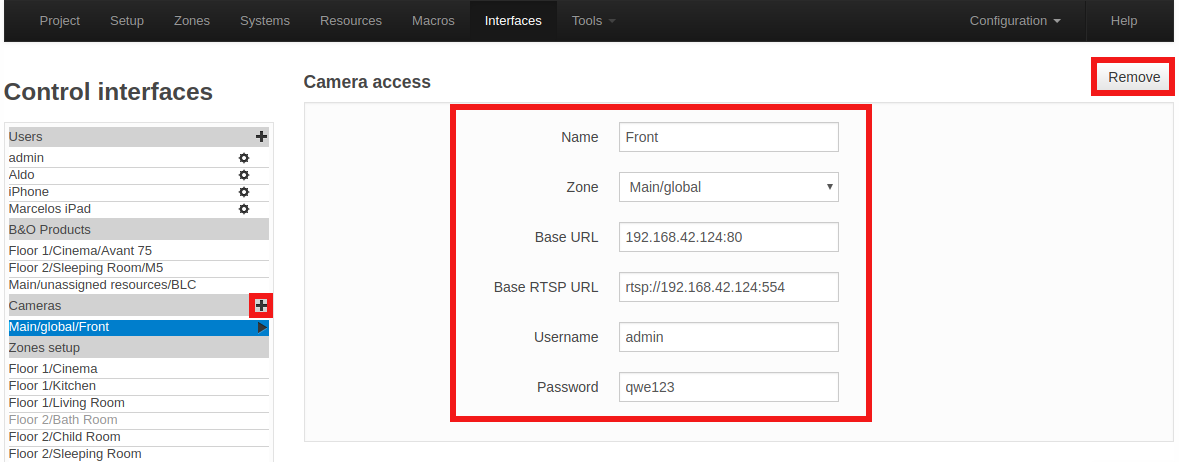
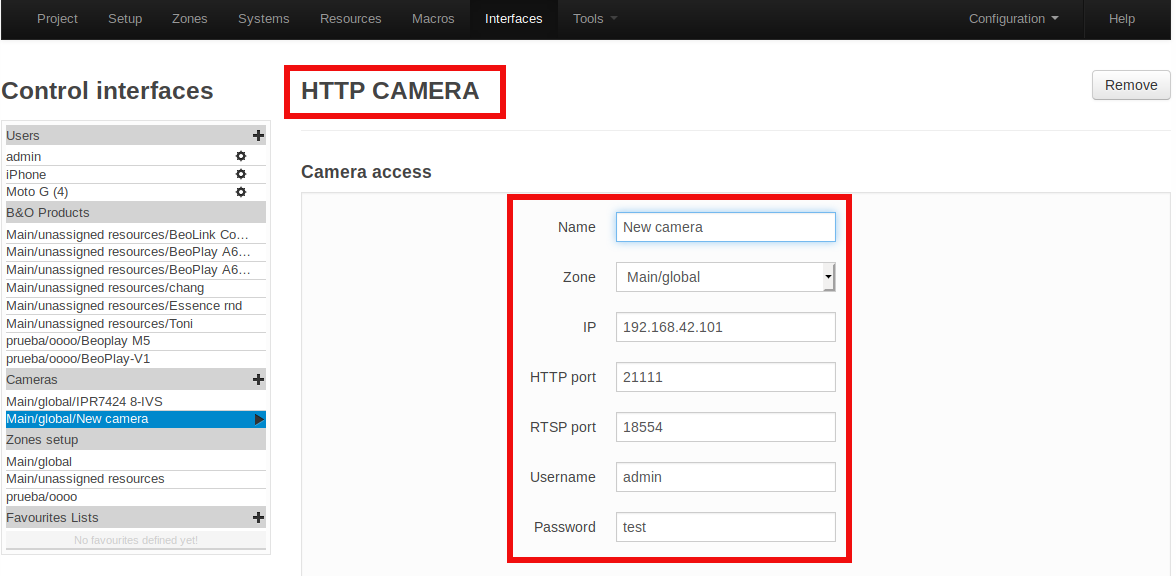
edited slides. added descover my devices to quick setup. Added new camera interface to pro guide. More?

Changed region(s): [[0.0, 0.0, 1.0, 1.0], [0.9184, 0.1212, 1.0, 0.2121]]

diff --git a/slides/training.md b/slides/training.md
@@ -5,8 +5,12 @@ layout: slides
 [comment]: <> (For a new horizontal slide use: \n----\n)
 [comment]: <> (For a new vertical slide use: \n|||n)
 [comment]: <> (To write slide notes uses \nNote:)
+<!--to control the slides while talking https://ivanmeresman.github.io/vendor/reveal.js/plugin/notes/notes.html-->
+
 
 <!-- .slide: data-background-image="bli.jpg" data-background-opacity=.1 -->
+
+
 
 ----
 ## BeoLiving Intelligence
@@ -33,14 +37,14 @@ Note:
 ----
 ### ESSENTIAL (1/2)
 
-- Designed for the end-user (*Plug & Play*)
-- Automatically adds B&O devices
-- Fully configurable from the *BeoLiving App*
-- Password less: improves security
+- Designed for end-user (*Plug & Play*)
+- Easily add B&O devices, Philips Hue lighting and ONVIF cameras
+- Fully configurable through the *BeoLiving App* (Scenes, Zones, etc.)
+- Passwordless: Improves security
 
 Note:
 + Designed for the end-user, meaning that you don't need any technical knowledge
-+ The idea is that when a customer buys a BLI, by itself he will by capable to install and start using it without any installer help
++ The idea is that when a customer buys a BLI, he will be able to install and start using it without any installer help
 + Most of its configuration is done through BeoLiving App
 + Web interface is only used for a few things. Network settings, Project info, User management, Firmware update and Service report are available. 
 Configuration upload/download is not supported
@@ -50,22 +54,22 @@ Configuration upload/download is not supported
  
 - Set content provider credentials
 - Products groups
-- Voice control
+- Voice control (Alexa & IFTTT)
 - Automatic firmware upgrade
 
 Note:
 - Voice control: Alexa, Google Home (on the way) and Apple HomePod (looking forward to)
-- HA systems are blocked
+- HA(High Availability) systems are blocked
 - Some HA systems will be added in the near future
 - Recapitulation of ESSENTIAL
 
 ----
 ## PRO
 
-- The *ESSENTIAL* features
-- The *BeoLink Gateway* features
+- One-time payment for PRO upgrade
+- The *ESSENTIAL*'s features
+- The *BeoLink Gateway*'s features
 - Remote access
-- One-time payment for PRO mode upgarde
 
 Note:
 - This upgrade is done through BLI web interface. 
@@ -73,15 +77,15 @@ Note:
 - Its web interface and configuration is practically the same as BeoLink Gateway
 
 ----
-## Changes compared with BLGW
+## Changes from BLGW
 
 - MasterLink devices only integrated through BLC
 - Beo4 and BeoRemote One commands deprecated from Macros
-- No more manual sources: devices' sources synchronized automatically
-- The default admin password
+- No more manual sources: device's sources synchronized automatically
+- No default admin password
 
 Note:
-+ By default, admin password is unknown. To set it to a known password, button function 2 must be entered. This will set admin password to "admin"for the next 5 minutes. Then, you must enter to its web interface and at first you will be asked to set a new admin password.
++ By default, admin password is unknown. To set it to a known password, button function 2 must be entered. This will set admin password to "admin"for the next 5 minutes. Then, you must enter its web interface and at first you will be asked to set a new admin password.
 + This decision is based in security matters.
 
 ----
@@ -99,20 +103,20 @@ Note:
 
 
 |||
-#### Feature: Assign products
+#### Feature: Add devices and create zones
 
-<iframe class="embed-responsive-item" src="https://www.youtube.com/embed/kxKkUu6QZVI?autoplay=0&loop=1&playlist=kxKkUu6QZVI"  frameborder="0" height="570" allow="autoplay; encrypted-media" allowfullscreen></iframe>
+<iframe class="embed-responsive-item" src="https://www.youtube.com/embed/6PNh82VpcW8?autoplay=0&loop=1&playlist=6PNh82VpcW8"  frameborder="0" height="630" width="460" allow="autoplay; encrypted-media" allowfullscreen></iframe>
 
 |||
 ### Feature:  Create products groups (1/2)
 
 + Statically link NetworkLink products
 + A product group behaves as one device
-+ Same source, same volume in the group
++ Same source, fixed volume ratio in the group
 + Solution for big rooms/ambients
 
 Note:
-+ In a products' group, exist a master product that will be the source and volume reference of the group and the rest of the grouped products will follow any source/volume change of master automatically. BeoLiving App will only show the master.
++ In a products' group, a master product that will be the source will appear and be volume reference of the group and the rest of the grouped products will follow any source/volume change of master automatically. BeoLiving App will only show the master.
 
 |||
 #### Feature:  Create products groups (2/2)
@@ -122,8 +126,8 @@ Note:
 |||
 ### Feature: Credentials content provider (1/2)
 
-+ BLI sets automatically credentials to new devices
-+ Previously credentials setting was done manually for each product
++ BLI automatically sets credentials to new devices
++ Previously credentials had to be set manually for each product
 
 Note:
 + Doesn't override existant credentials on devices
@@ -183,7 +187,7 @@ If you start the linking procedure using your laptop or any other device that ha
 |||
 ### Alexa Tips
 
-+ Alexa's device identifier name = "_Zone name_" +  "_Device name_"
++ Alexa's device name = "_Zone name_" +  "_Device name_"
 + Devices names should be chosen properly
 + Create scenes for most frequent use cases or as a workaround if Alexa doesn't understand an instruction.
 
@@ -212,8 +216,8 @@ Note:
 ----
 ### Documentation
 
-- Everything at github
-- Help us improving it!
+- khimo.github.io
+- New tutorials and information added monthly
+- Help us improve it!
   - Create a github user
-  - Send the user to us
-  - Edit it from github
+  - Suggest edits

diff --git a/bli-guides/_01-setup-bli-pro/07-interfaces.md b/bli-guides/_01-setup-bli-pro/07-interfaces.md
@@ -114,22 +114,40 @@ The configuration of several network cameras is permitted. To add a camera, pres
 
 <br>
 <div class="text-center">
-  <img src="https://khimo.github.io/bli-guides/pictures/bli-pro-user-guide/interfaces-camera-conf.png" class="img-fluid" alt="Interfaces Camera configuration"/>
+  <img src="https://khimo.github.io/bli-guides/pictures/bli-pro-user-guide/interfaces-camera-add.png" class="img-fluid" alt="Interfaces Camera addition"/>
 </div>
 <br>
 
-##### Camera basic configuration
+##### ONVIF Cameras
+
+Both ONVIF protocol cameras and HTTP cameras are supported, when adding a camera ONVIF cameras available on the network will be automatically detected. These can also be added to your system directly through the BeoLiving App on a smartphone.
+
+> Please be aware that there are companies improperly claiming ONVIF conformance for their products, compatibility can be verified on https://www.onvif.org/conformant-prod.... You must also take into account that some ONVIF compatible cameras don't have the functionality enabled by default (e.g.: Hikvision https://www.hikvision.com/ueditor/net...) and must be "manually" enabled. 
+
+<br>
+<div class="text-center">
+  <img src="https://khimo.github.io/bli-guides/pictures/bli-pro-user-guide/interfaces-camera-confONVIF.png" class="img-fluid" alt="Interfaces ONVIF Camera configuration"/>
+</div>
+<br>
+
+##### HTTP Camera basic configuration
 
 _BLI PRO_ has a simple and strong capability integration with most CCTV systems or IP Cameras found in the market.
+
+<br>
+<div class="text-center">
+  <img src="https://khimo.github.io/bli-guides/pictures/bli-pro-user-guide/interfaces-camera-conf.png" class="img-fluid" alt="Interfaces Camera configuration"/>
+</div>
+<br>
 
 To add a camera you must fill the next form:
 
 - **Name**: Name that identifies the camera. The name will be shown in the user interfaces.
 - **Zone**: Drop down list to select the zone in which the camera is placed.
-- **Base URL**: A Base URL (_URL_: _Port number_), to which all commands will be appended, must be provided. The format may vary.
->> E.g. http://192.168.1.37:80.
-- **Base RTSP URL**: If your camera supports _RTSP_ protocol with _H264_ encoded stream format, base URL of RTSP server could be specified (as rtsp://_URL_:_Server Port_). 
->> E.g. rtsp://bigserver.com:554.
+- **IP**: A Base URL (_URL_: _Port number_), to which all commands will be appended, must be provided. The format may vary.
+>> E.g. 192.168.1.37
+- **HTTP Port**: 
+- **RTSP Port**: 
 
 >> These camera _RTSP_ streams will not be available through webpanel and may only be seen on the App or by going to rtsp://$GATEWAY_HOST:554/$AREA/$ZONE/CAMERA/$NAME
 
@@ -138,7 +156,7 @@ To add a camera you must fill the next form:
 
 If a camera must be removed from the list, choose the _Camera_ header in the left column and press the **Remove** button.
 
-##### Camera resources path
+##### HTTP Camera resources path
 
 By pressing the _Raw edit_ button a text representation of all the fields appears for setting camera resolutions and commands. It is possible to 
 copy and paste the text when setting up other similar cameras and for each of these to adapt to the actual camera.

diff --git a/bli-guides/bli-quick-setup-guide.md b/bli-guides/bli-quick-setup-guide.md
@@ -32,7 +32,7 @@ by the serial number located at the back side of each.
   </div>
 </div>
 
-## Adding Bang & Olufsen products {#add-products}
+## Adding Bang & Olufsen products {#add-BEOproducts}
 
 1. **Go to App and press "Add products"**
     - In the main screen of the _BeoLiving App_, select your _BeoLiving Intelligence_ and click on "Add products". A list of the supported products that are on the same network will appear.
@@ -42,17 +42,32 @@ by the serial number located at the back side of each.
     - Select the product you want to add from the list and click on "Assign to zone". Assign the product to the zone you just created.
     - Return to the _BeoLiving Intelligence_ main screen and you should see the zone with the icon of the product added.
 
+You can **add more products to that zone, edit products name, change products from zone and create more zones** by pressing **"Edit products"**. 
+Note that only one icon per type of product will appear in the zone.
+
+## Adding Philips Hue and ONVIF cameras {#add-hueandONVIF}
+
+1. **Go to App and press "Add products"**
+    - In the main screen of the _BeoLiving App_, select your _BeoLiving Intelligence_ and click on "Add products".
+1. **Discover available products**
+    - Press the _Discover my devices_ button to find all Philips Hue systems and ONVIF protocol enabled cameras that appear on your network.
+    - **Philips Hue:** A message will appear asking you to press the button on the Hue Bridge, enabling discovery of all lights and Hue Scenes.
+    - **ONVIF cameras:** Insert camera credentials if needed.
+1. **Assign product to zone**
+    - Select the product you want to add from the list and click on "Assign to zone".
+    - Return to the _BeoLiving Intelligence_ main screen and you should see the zone with the icon of the product added.
+
 <div class="row justify-content-center">
   <div class="col-sm-5">     
-	<div class="embed-responsive" style="padding-bottom: 179%;">
-	  <iframe class="embed-responsive-item" src="https://www.youtube.com/embed/kxKkUu6QZVI?autoplay=1&loop=1&playlist=kxKkUu6QZVI"  frameborder="0" height="570" allow="autoplay; encrypted-media" allowfullscreen muted></iframe>
-	</div>
+  <div class="embed-responsive" style="padding-bottom: 179%;">
+    <iframe class="embed-responsive-item" src="https://www.youtube.com/embed/6PNh82VpcW8?autoplay=1&loop=1&playlist=6PNh82VpcW8"  frameborder="0" height="570" allow="autoplay; encrypted-media" allowfullscreen muted></iframe>
+  </div>
   </div>
 </div>
 <br>
 
 You can **add more products to that zone, edit products name, change products from zone and create more zones** by pressing **"Edit products"**. 
-Note that only one icon per type of product will appear in the zone.
+Note that only one icon per type of product will appear in the zone. 
 
 ## Controlling Bang & Olufsen products {#control-products}
 
